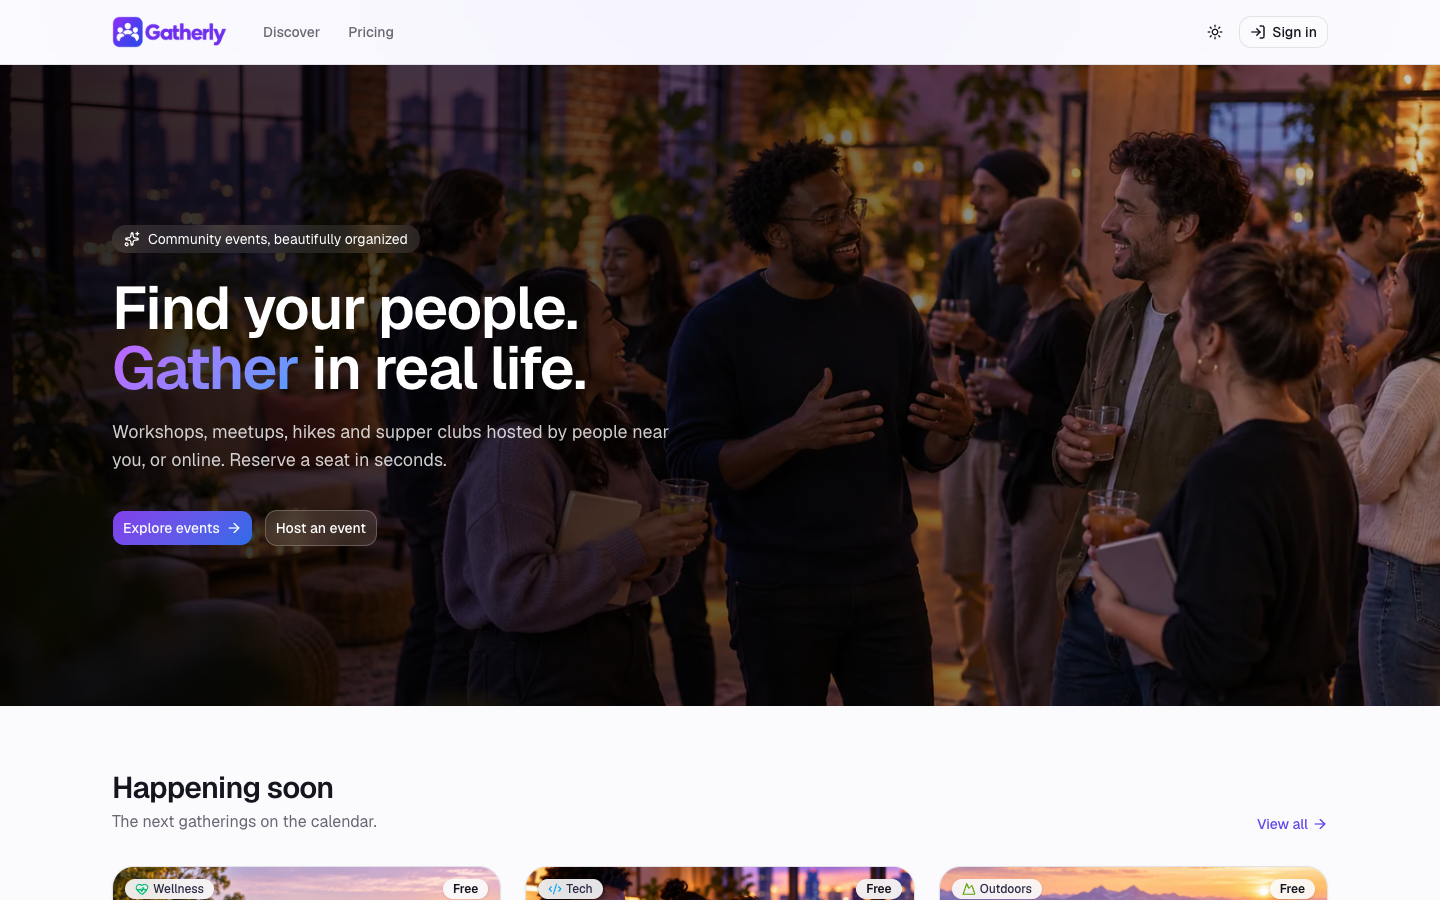
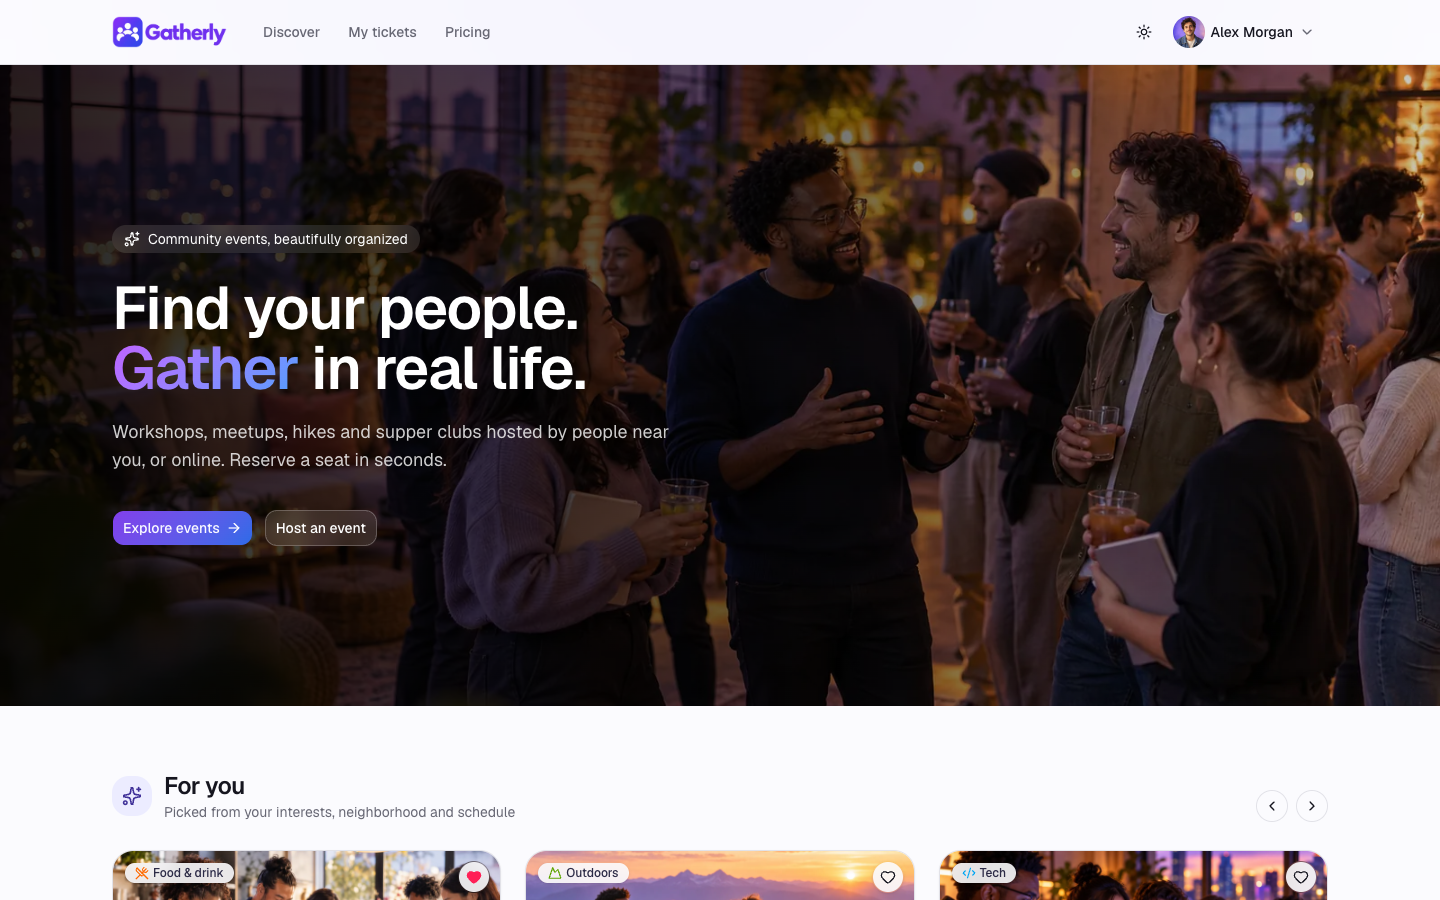
docs(readme): personalization round
Sign-up and onboarding, the For you feed with reasons, typo-tolerant
search, saves and hides; new screenshots from the live app; decisions
for sign-in, ranking, search and interaction data with their ADRs;
limitations and production checklist updated; links to the live API
reference.

diff --git a/README.md b/README.md
@@ -1,10 +1,10 @@
 # Gatherly
 
-A community events platform: organizers publish meetups, attendees reserve seats, administrators keep the platform healthy. Built as a working MVP with production habits from day one: race-safe capacity, layered authorization, a payment-ready data model, and full telemetry.
+A community events platform: organizers publish meetups, attendees reserve seats, administrators keep the platform healthy. Discovery is personal: after a short onboarding, a **For you** feed ranks events by your interests, neighborhood and schedule and says why each one is there. Built as a working MVP with production habits from day one: race-safe capacity, layered authorization, a payment-ready data model, versioned ranking with interaction logging, and full telemetry.
 
 **Live demo: [gatherly--khanovicdev.replit.app](https://gatherly--khanovicdev.replit.app)** (free hosting; the first request after a quiet period takes a few seconds while the app wakes up).
 
-![Gatherly discover page](docs/images/discover.png)
+![Gatherly Discover page with the For you feed](docs/images/for-you.png)
 
 ## Contents
 
@@ -26,28 +26,36 @@ The guiding tradeoff: **ship a working product fast, but make every shortcut del
 
 | Built now, because it is expensive to retrofit | Designed now, built later |
 |---|---|
-| Capacity that cannot overbook under concurrency, proven by a test | Real sign-in through an OIDC provider |
+| Capacity that cannot overbook under concurrency, proven by a test | Sign-in with Google, Apple or Facebook, or an OIDC provider |
 | Authorization in three layers (role, entitlement, ownership), enforced by the API | Paid tickets and payouts on Stripe Connect |
 | A data model ready for paid tickets (seat holds, refunds, prices) | Waitlist, email notifications, mobile apps |
 | Traces, logs, metrics and errors linked by one trace ID | Collector, tail sampling, alerting on SLOs |
+| Ranking behind one interface, versioned, with every impression and outcome logged | A learned ranking model trained on those logs |
 
 ## Try the live demo
 
-There are no passwords. The sign-in page offers three demo personas; switch between them at any time from the avatar menu.
+Two ways in:
+
+- **Create an account** with email and password. A three-step onboarding asks what you are into, where you are in New York and when you are free; Discover then opens on **For you**.
+- **Try a demo account**, no password: three personas on the sign-in page, switchable at any time from the avatar menu.
+
+The demo holds about 200 members and 40 events across New York neighborhoods, with real registrations, saves and interaction history.
 
 | Persona | Role and plan | What to try |
 |---|---|---|
 | **Olivia Bennett** (Organizer) | Member, Premium plan | Create an event and watch the live preview; edit capacity; open an event's attendee list and remove someone |
-| **Alex Morgan** (Attendee) | Member, Free plan | Reserve a seat, cancel it, see it under My tickets; try **Host an event** to hit the Premium paywall |
+| **Alex Morgan** (Attendee) | Member, Free plan, onboarded | **For you** with reasons on every card; save an event, or mark one **Not interested**; reserve and cancel a seat; try **Host an event** to hit the Premium paywall |
 | **Sam Patel** (Admin) | Administrator | Review platform stats; suspend a member or grant Premium; cancel any event; reset the demo data |
 
 A five-minute tour:
 
-1. Sign in as **Alex**, open any event on Discover and reserve a seat. The seat meter updates; the ticket appears under **My tickets**.
-2. Cancel the reservation; the seat returns to the pool.
-3. Try **Host an event**. Alex is on the Free plan, so a paywall offers Premium (checkout answers "coming soon"; no real payments).
-4. Switch to **Olivia**, create an event with a capacity of 2, then switch personas to fill it. The third attempt shows **Sold out**; the API refuses it with `EVENT_FULL`.
-5. Switch to **Sam**. Suspend a background member, change a plan, or cancel an event. The demo personas themselves are protected so a public visitor cannot lock others out; **Reset demo data** restores everything.
+1. **Create an account** and finish onboarding (pick three interests, a neighborhood, your free times). Discover opens on **For you**: each card says why it is there ("Because you like Tech", "1.8 km away", "Tuesday evening").
+2. Search with a typo, such as `kayakng`; filter by distance or date; scroll to the end of the list.
+3. Sign in as **Alex**, open any event and reserve a seat. The seat meter updates; the ticket appears under **My tickets**.
+4. Cancel the reservation; the seat returns to the pool. Save an event with the heart, or hide one from the card menu.
+5. Try **Host an event**. Alex is on the Free plan, so a paywall offers Premium (checkout answers "coming soon"; no real payments).
+6. Switch to **Olivia**, create an event with a capacity of 2, then switch personas to fill it. The third attempt shows **Sold out**; the API refuses it with `EVENT_FULL`.
+7. Switch to **Sam**. Suspend a background member, change a plan, or cancel an event. The demo personas themselves are protected so a public visitor cannot lock others out; **Reset demo data** restores everything.
 
 The seed uses dates relative to today, and the server re-seeds when no upcoming events remain, so the demo stays fresh.
 
@@ -55,7 +63,9 @@ The seed uses dates relative to today, and the server re-seeds when no upcoming 
 
 | | |
 |---|---|
-| ![Landing page](docs/images/landing.png) **Landing:** value proposition and upcoming events | ![Event detail](docs/images/event-detail.png) **Event detail:** seats meter and one-click reservation |
+| ![Sign-in and sign-up](docs/images/signin.png) **Sign in:** email and password, or a demo account in one click | ![Onboarding](docs/images/onboarding.png) **Onboarding:** interests and tags, then location and schedule |
+| ![For you feed](docs/images/for-you.png) **For you:** ranked by interests, distance and schedule, with reasons | ![Search with a typo](docs/images/search.png) **Search:** full-text with typo tolerance ("sourdugh") |
+| ![Landing page](docs/images/landing.png) **Landing:** personal rails for signed-in members | ![Event detail](docs/images/event-detail.png) **Event detail:** seats meter and one-click reservation |
 | ![Organizer dashboard](docs/images/organizer-dashboard.png) **Organizer dashboard:** fill rates and event management | ![Create event](docs/images/create-event.png) **Create event:** validated form with live preview |
 | ![Premium paywall](docs/images/paywall.png) **Paywall:** a Free member trying to create an event | ![Admin console](docs/images/admin.png) **Admin console:** platform stats, users, events, demo reset |
 
@@ -85,7 +95,7 @@ Telemetry is off unless its variables are set; `.env.example` lists them. Nothin
 
 | Path | What lives there |
 |---|---|
-| `apps/api` | Fastify REST API under `/api/v1`. `src/modules/*` holds one folder per area (auth, events, registrations, organizer, admin, billing, health); `src/lib` holds guards, errors and metrics; `src/db` holds the Drizzle schema, migrations runner and demo seed; `drizzle/` holds SQL migrations; `test/` holds the workflow and concurrency tests |
+| `apps/api` | Fastify REST API under `/api/v1`. `src/modules/*` holds one folder per area (auth, profile, events, discover, saves, interactions, registrations, organizer, admin, billing, health); `src/ranking` holds the ranker; `src/lib` holds guards, errors, rate limits and metrics; `src/db` holds the Drizzle schema, migrations runner and demo seed; `drizzle/` holds SQL migrations; `test/` holds the workflow and concurrency tests |
 | `apps/web` | React single-page app (Vite, TanStack Query, React Router, Tailwind, shadcn/ui). `src/pages` has one file per route, `src/features` the page-specific components |
 | `packages/shared` | Zod schemas, types, enums and error codes shared by API and web, so contracts cannot drift |
 | `ops/grafana` | Grafana dashboard for request rate, errors, latency and business counters |
@@ -119,10 +129,13 @@ flowchart LR
 | Stack | TypeScript end to end: Fastify, Zod, Drizzle, Postgres, React | One language and one set of schemas for API, web and later mobile | Node is weaker for CPU-heavy work (we have none) | [ADR 0001](docs/adr/0001-stack.md) |
 | Repository | pnpm workspace monorepo with a shared contracts package | API and clients change together | One pipeline builds everything | [ADR 0002](docs/adr/0002-monorepo.md) |
 | Hosting | One Replit Autoscale deployment, free tier | Zero cost, live link, no CORS | Cold starts, one environment | [ADR 0003](docs/adr/0003-hosting.md) |
-| Sign-in | Demo personas, server-side sessions, HttpOnly cookie | Reviewers try every role in one click | Not real identity; OIDC before production | [ADR 0004](docs/adr/0004-demo-auth.md) |
+| Sign-in | Email and password (argon2id, rate-limited) plus demo personas; server-side sessions, HttpOnly cookie | Real accounts for personalization with no third party; reviewers still try every role in one click | No email verification or social sign-in yet | [ADR 0004](docs/adr/0004-demo-auth.md), [ADR 0008](docs/adr/0008-password-signup.md) |
 | Authorization | Role, entitlement and ownership checks in API guards | Separates who you are, what you pay for and what you own | Three checks to reason about | [ADR 0005](docs/adr/0005-authorization-model.md) |
 | Capacity | Atomic conditional update plus a partial unique index, one transaction | No overbooking, no extra infrastructure | One hot row per event caps peak throughput | [ADR 0006](docs/adr/0006-capacity-concurrency.md) |
 | Telemetry | OpenTelemetry direct to Grafana Cloud; Sentry for errors | Mature signals on free tiers, no collector to run | No tail sampling | [ADR 0007](docs/adr/0007-telemetry.md) |
+| Ranking | Rule-based scorer (`rules-v1`) behind a `Ranker` interface; reasons on every result; diversity rerank | Explainable and testable with no behavior data yet | Hand-tuned weights; a learned model needs data first | [ADR 0009](docs/adr/0009-rule-based-ranker.md) |
+| Search | Postgres full-text search plus trigram matching (`pg_trgm`) | Relevance and typo tolerance with no search service | Single-city scale; a search engine later | [Architecture](docs/architecture.md#5-personalized-discovery) |
+| Interaction data | Append-only `interactions` table: impressions and outcomes with surface, position and ranker version | Lets rankers be compared offline; privacy rules decided up front | Personal data to protect and expire | [ADR 0010](docs/adr/0010-interaction-data.md) |
 
 The full picture, including the data model, request flow, permission matrix and scaling and security notes, is in [docs/architecture.md](docs/architecture.md).
 
@@ -170,6 +183,7 @@ Details, including the trace flow and the plan beyond free tiers, are in [docs/o
 | Role-based authorization | Designed and implemented: roles, entitlements and ownership enforced by API guards; the UI only mirrors them ([permission matrix](docs/architecture.md#permission-matrix)) |
 | Automated tests | `apps/api/test/registrations.test.ts`: the brief's workflow end to end, and 25 parallel registrations for 10 seats ending with exactly 10 confirmed |
 | Architecture diagram and explanation | [docs/architecture.md](docs/architecture.md) |
+| Beyond the brief: personalized discovery | Sign-up and onboarding, `GET /discover/home` rails, `GET /events?sort=for_you`, saves and hides, `POST /interactions` ([docs/api.md](docs/api.md)); the live API reference is at [/api/docs](https://gatherly--khanovicdev.replit.app/api/docs) |
 
 ## Assumptions, limitations and tradeoffs
 
@@ -187,7 +201,9 @@ Details, including the trace flow and the plan beyond free tiers, are in [docs/o
 
 | Limitation | Why it is acceptable now | Upgrade path |
 |---|---|---|
-| Demo personas instead of real accounts; anyone can act as Admin | Reviewers need every role instantly; personas are protected and data can be reset | OIDC provider behind the same session and guard layer |
+| Anyone can act as Admin through the demo personas | Reviewers need every role instantly; personas are protected and data can be reset | Remove the personas; admin roles only through an identity provider |
+| Email sign-up has no verification or password reset; social buttons say "coming soon" | Enough to give each visitor their own preferences | OAuth providers and a hosted identity service ([ADR 0008](docs/adr/0008-password-signup.md)) |
+| Rule-based ranking with hand-tuned weights; New York neighborhoods only, no geocoding | No behavior data to learn from yet; one demo city | A learned model evaluated offline on logged interactions; geocoded addresses |
 | No email, waitlist, image upload or real payments | Not needed to prove the core workflow | [docs/roadmap.md](docs/roadmap.md) |
 | One environment, no staging | Free hosting, CI on every change, local Postgres for development | Separate staging and production |
 | Mobile apps are architecture only | The API is versioned and client-agnostic | Native or React Native clients on the same API |
@@ -216,13 +232,14 @@ What exists today and what must happen before real users and real money:
 
 | Area | In place | Before production |
 |---|---|---|
-| Identity | Server-side sessions, HttpOnly cookies, suspended users blocked | OIDC sign-in, MFA for admins, account lifecycle |
+| Identity | Email and password with argon2id, rate-limited sign-in and sign-up, server-side sessions, HttpOnly cookies, suspended users blocked | Email verification, password reset, OAuth or OIDC sign-in, MFA for admins, account deletion |
 | Authorization | Role, entitlement and ownership guards; protected demo accounts | Audit log of admin actions |
 | Data | Migrations, constraints, partial unique index, race-safe capacity | Managed Postgres with backups and point-in-time recovery; restore drill |
-| Security | Validated input, problem-details errors without internals, email redacted from logs | Rate limiting, security headers and CSP, dependency and secret scanning |
+| Security | Validated input, problem-details errors without internals, rate limits on authentication, no IPs or emails in logs | Rate limits on every write, security headers and CSP, dependency and secret scanning |
 | Reliability | Health, readiness and version endpoints; graceful shutdown flushes telemetry | Minimum warm instances, staging environment, zero-downtime migrations |
 | Observability | Traces, logs and metrics in Grafana; errors in Sentry; dashboard in `ops/grafana` | SLOs with alerts, synthetic checks, collector with tail sampling, log retention policy |
-| Product | Core workflow, organizer and admin tools, pricing and paywall | Email notifications through an outbox, waitlist, real subscriptions |
+| Product | Core workflow, personalized discovery, organizer and admin tools, pricing and paywall | Email notifications through an outbox, waitlist, real subscriptions |
+| Personal data | Interaction logging with a first-party anonymous ID, documented retention ([ADR 0010](docs/adr/0010-interaction-data.md)) | Consent banner where required, data export and deletion requests, enforced retention job |
 | Delivery | CI with lint, types, tests against Postgres and build | Preview environments, release tagging, rollback runbook |
 
 The full plan is in [docs/roadmap.md](docs/roadmap.md).
@@ -232,7 +249,7 @@ The full plan is in [docs/roadmap.md](docs/roadmap.md).
 | Document | Covers |
 |---|---|
 | [Architecture](docs/architecture.md) | System context, containers, request flow, data model, access control, scaling, security, integrations, mobile |
-| [API](docs/api.md) | Endpoints, access rules and error codes |
+| [API](docs/api.md) | Endpoints, access rules and error codes; the live reference is at [/api/docs](https://gatherly--khanovicdev.replit.app/api/docs) |
 | [Monetization](docs/monetization.md) | Plans, ticketing marketplace, seat holds, refunds, webhooks, tax |
 | [Observability](docs/observability.md) | Signals, trace flow, dashboard, future plan |
 | [Roadmap](docs/roadmap.md) | Now, next and later |
